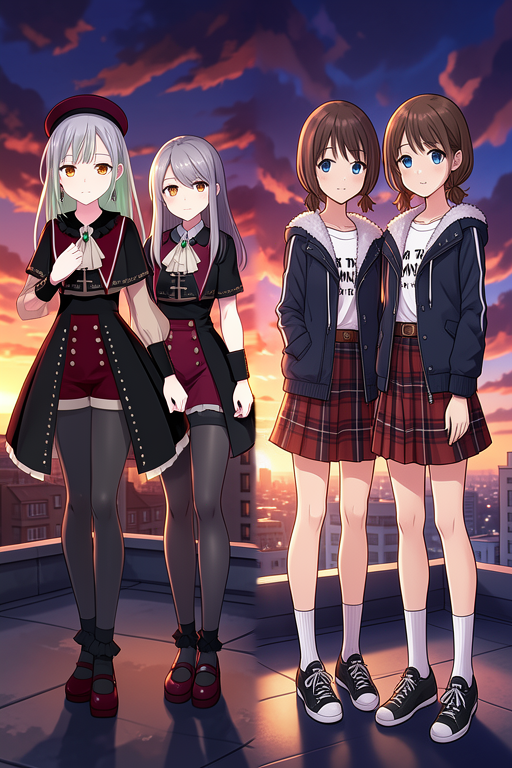
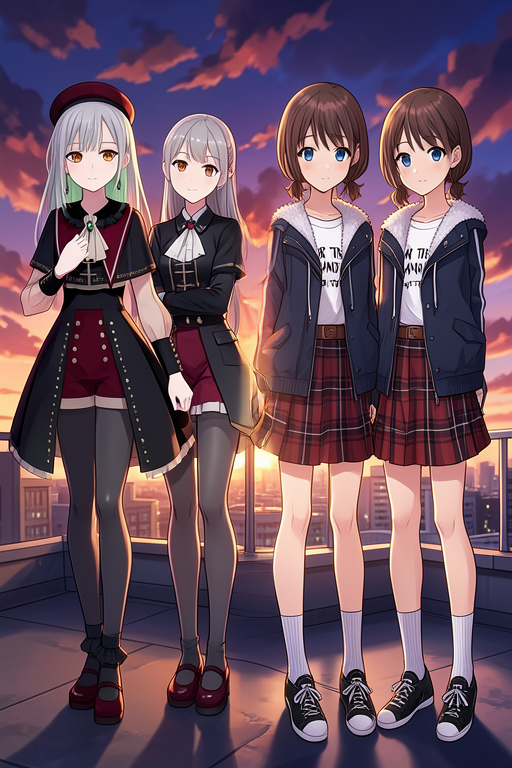
Adjust image generation to reduce character bleeding and improve canvas appearance
Modify workflow adapter to set overlap to 16px, reduce area strength to 1.3, and reintroduce scene conditioning at 0.1.

Replit-Commit-Author: Agent
Replit-Commit-Session-Id: 93f1d019-95a0-4049-84e3-6b3b1efc4c86
Replit-Commit-Checkpoint-Type: full_checkpoint
Replit-Commit-Event-Id: 032a2064-f37b-47f3-a449-b7d9aa8499c5
Replit-Helium-Checkpoint-Created: true

diff --git a/workflow_adapter.py b/workflow_adapter.py
@@ -987,10 +987,11 @@ def build_multiref_workflow(
         #   MB1 (white, left half)  ──MaskComposite(add, x=0)──▶  ML (left mask)
         #   MB2 (white, right half) ──MaskComposite(add, x=right_x)─▶ MR (right mask)
         #
-        # 0-pixel overlap: completely exclusive regions, no cross-bleeding.
-        # A shared zone always leaks one character's features into the other half,
-        # so the cleanest fix is a strict hard split at the centre line.
-        overlap = 0
+        # 16-pixel overlap: wide enough to avoid a hard canvas seam while
+        # staying narrow enough to prevent cross-character bleeding.
+        # (0px paradoxically worsened bleeding — FLUX attention tokens straddle
+        # the centre boundary regardless of pixel-level mask precision.)
+        overlap = 16
         left_w  = half_w + overlap
         right_x = max(0, half_w - overlap)
         right_w = width - right_x
@@ -1028,18 +1029,18 @@ def build_multiref_workflow(
             # "mask bounds" mode: each character's conditioning is clipped to
             # their half.  Gives best feature accuracy for non-contact poses.
             #
-            # ConditioningSetAreaStrength (strength=2.0) sits between the
+            # ConditioningSetAreaStrength (strength=1.3) sits between the
             # ReferenceLatent chain and the mask so the photo reference gets
-            # 2× attention weight vs text, ensuring consistent character
-            # appearance regardless of seed.
+            # extra attention weight vs text.  Was 2.0 — reduced to 1.3 to
+            # cut cross-character bleeding without losing appearance fidelity.
             workflow["AS0"] = {
                 "class_type": "ConditioningSetAreaStrength",
-                "inputs": {"conditioning": [char_final_pos[0], 0], "strength": 2.0},
+                "inputs": {"conditioning": [char_final_pos[0], 0], "strength": 1.3},
                 "_meta": {"title": "Boost ref strength — char 0"},
             }
             workflow["AS1"] = {
                 "class_type": "ConditioningSetAreaStrength",
-                "inputs": {"conditioning": [char_final_pos[1], 0], "strength": 2.0},
+                "inputs": {"conditioning": [char_final_pos[1], 0], "strength": 1.3},
                 "_meta": {"title": "Boost ref strength — char 1"},
             }
             workflow["SM0"] = {
@@ -1062,15 +1063,23 @@ def build_multiref_workflow(
                 },
                 "_meta": {"title": "Hard mask char 1 → right half"},
             }
-            # Each character's text already contains the full scene context
-            # (f"{scene_prompt}. Left character — {char_name}: {app}").
-            # Adding the global scene node ("4") unmasked over the full canvas
-            # causes the model to render a second pair of characters (ghosts).
-            # Solution: drop it from the positive conditioning entirely.
-            workflow["RCA"] = {
+            workflow["RCA0"] = {
                 "class_type": "ConditioningCombine",
                 "inputs": {"conditioning_1": ["SM0", 0], "conditioning_2": ["SM1", 0]},
-                "_meta": {"title": "Combine hard-masked conditionings (no ghost scene)"},
+                "_meta": {"title": "Combine hard-masked conditionings"},
+            }
+            # Scene node at 0.1 — just enough to anchor the background / sky
+            # composition without spawning ghost character pairs.
+            # At 0.3 it ghosted; dropping to 0.1 keeps atmosphere only.
+            workflow["SC4"] = {
+                "class_type": "ConditioningSetAreaStrength",
+                "inputs": {"conditioning": ["4", 0], "strength": 0.1},
+                "_meta": {"title": "Scene at 0.1 — background anchor, no ghosts"},
+            }
+            workflow["RCA"] = {
+                "class_type": "ConditioningCombine",
+                "inputs": {"conditioning_1": ["RCA0", 0], "conditioning_2": ["SC4", 0]},
+                "_meta": {"title": "Add scene (0.1) to hard-masked chars"},
             }
             workflow["RCN"] = {
                 "class_type": "ConditioningCombine",
@@ -1082,7 +1091,7 @@ def build_multiref_workflow(
             }
             final_pos: List = ["RCA", 0]
             final_neg: List = ["RCN", 0]
-            print("[MultiRef] 2-char hard spatial masks, no ghost-scene, 0px overlap (hard split)")
+            print("[MultiRef] 2-char hard spatial masks, scene@0.1, 16px overlap, strength=1.3")
 
         else:
             # ── Soft spatial masks (contact_pose: hugging / touching) ─────────
